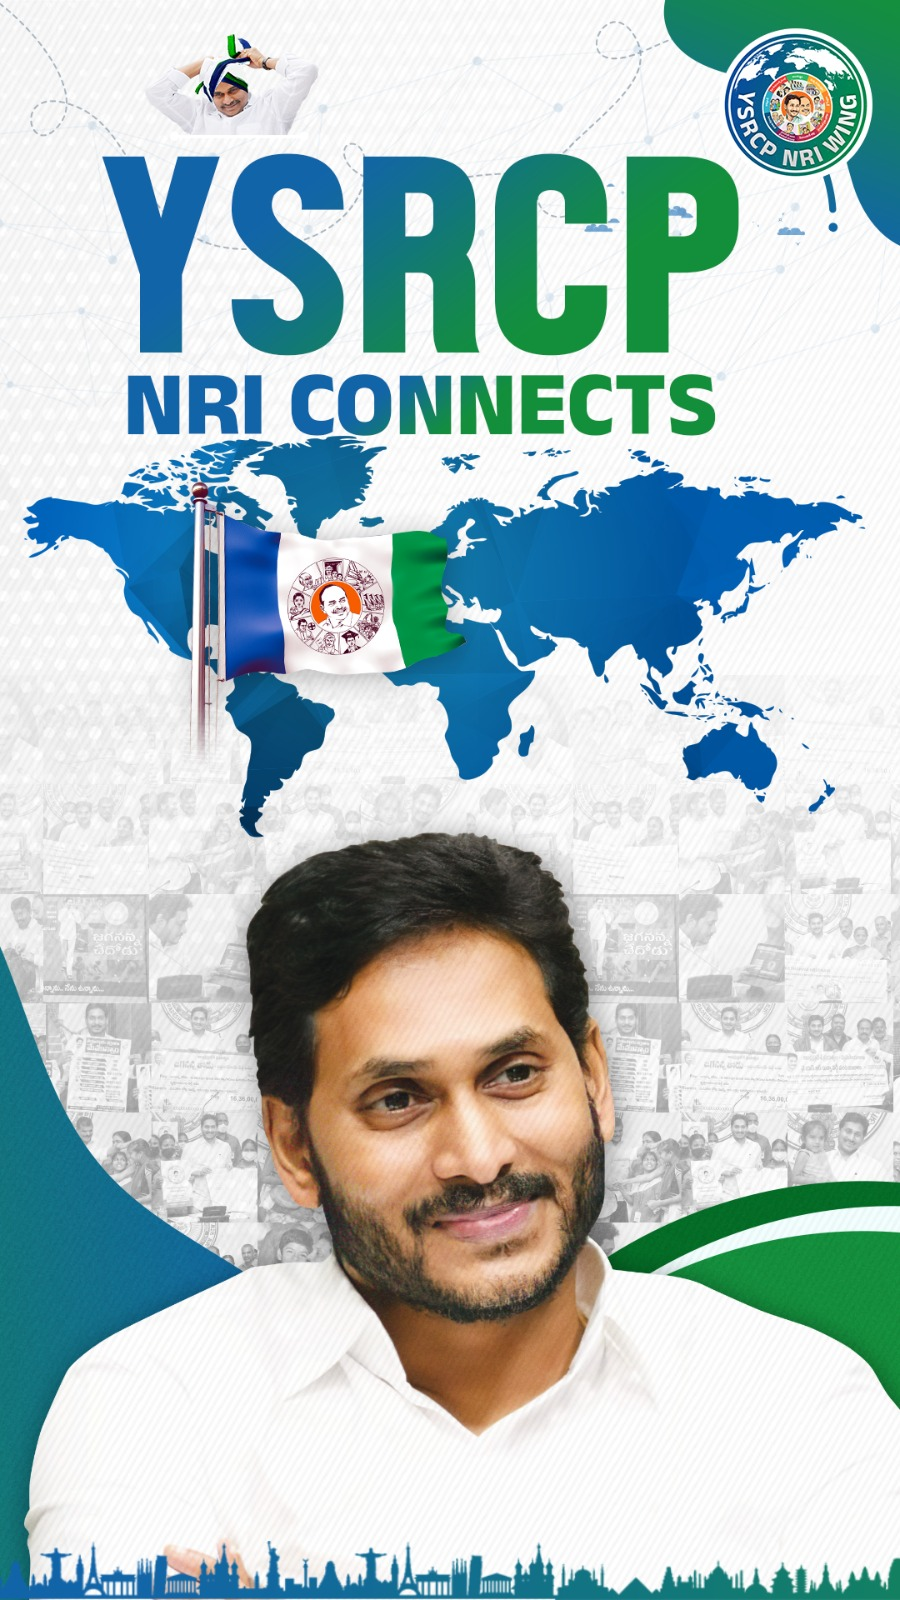
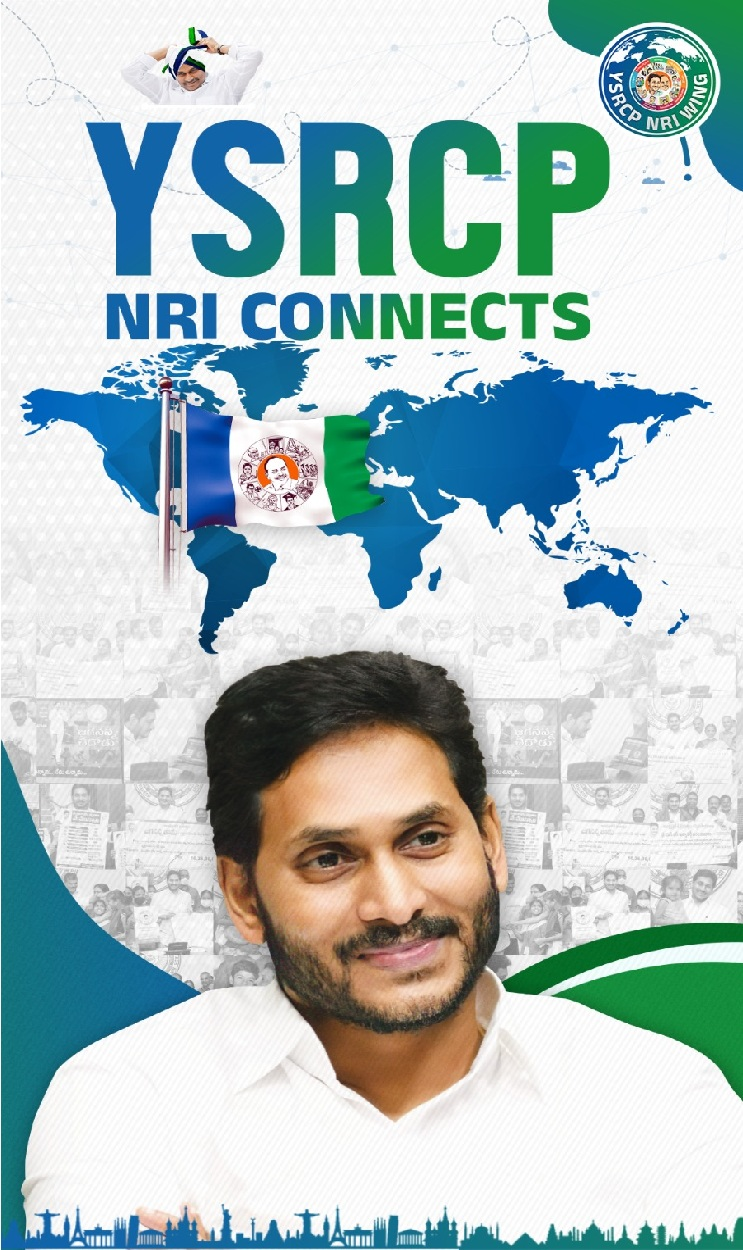
mobile image size cropped

diff --git a/src/components/Hero.tsx b/src/components/Hero.tsx
@@ -14,7 +14,7 @@ const Hero: React.FC<HeroProps> = ({ onJoinNow }) => {
     //{ img: "/Slider/simg6.jpeg" },
   ];
 
-  const mobileSlides = [{ img: "/Slider/msimg1.png" }];
+  const mobileSlides = [{ img: "/Slider/msimg1.jpeg" }];
 
   const [current, setCurrent] = useState(0);
   const [isMobile, setIsMobile] = useState(false);
